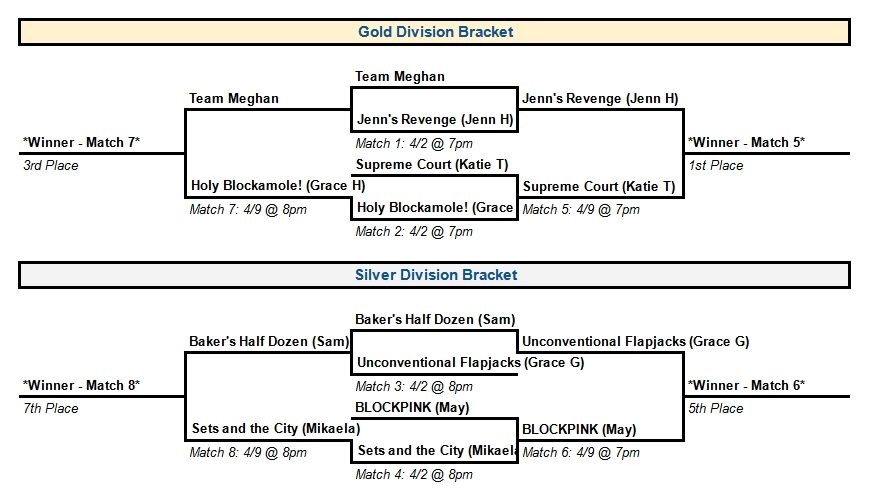
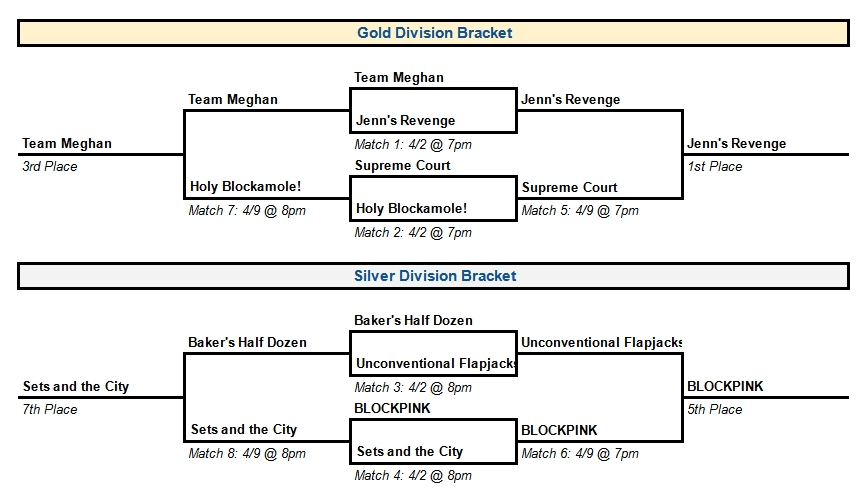
dcvb playoff 1

diff --git a/coed/dcvb_win24.html b/coed/dcvb_win24.html
@@ -172,40 +172,40 @@
           <th style="border-top:1px solid black;border-left:solid;border-right:solid;border-bottom:1px solid black;text-align:center;background-color:DarkGray;">-</th>
         </tr>
         <tr style="background-color:GhostWhite">
-          <th style="border-top:1px solid black;border-left:solid;border-right:solid;border-bottom:1px solid black;padding-left:3px;padding-right:3px;">When Harry Set Sally</th>
-          <td style="border:1px solid black;text-align:center;">9</td>
-          <td style="border:1px solid black;text-align:center;">11.25</td>
-          <td style="border:1px solid black;text-align:center;">11.25</td>
+          <th style="border-top:1px solid black;border-left:solid;border-right:solid;border-bottom:1px solid black;padding-left:3px;padding-right:3px;">Love at First Spike</th>
+          <td style="border:1px solid black;text-align:center;">10</td>
+          <td style="border:1px solid black;text-align:center;">12.50</td>
+          <td style="border:1px solid black;text-align:center;">12.50</td>
           <td style="border:1px solid black;text-align:center;">0.500</td>
+          <td style="border:1px solid black;text-align:center;">0.500</td>
+          <td style="border:1px solid black;text-align:center;">0.499</td>
+          <td style="border:1px solid black;text-align:center;">0.500</td>
+          <td style="border:1px solid black;text-align:center;">-</td>
+          <th style="border-top:1px solid black;border-left:solid;border-right:solid;border-bottom:1px solid black;text-align:center;background-color:MediumSeaGreen;">+2</th>
+        </tr>
+        <tr style="background-color:LightGray">
+          <th style="border-top:1px solid black;border-left:solid;border-right:solid;border-bottom:1px solid black;padding-left:3px;padding-right:3px;">When Harry Set Sally</th>
+          <td style="border:1px solid black;text-align:center;">10</td>
+          <td style="border:1px solid black;text-align:center;">11.75</td>
+          <td style="border:1px solid black;text-align:center;">13.25</td>
+          <td style="border:1px solid black;text-align:center;">0.470</td>
           <td style="border:1px solid black;text-align:center;">0.503</td>
           <td style="border:1px solid black;text-align:center;">0.500</td>
           <td style="border:1px solid black;text-align:center;">0.502</td>
-          <td style="border:1px solid black;text-align:center;">0.479</td>
-          <th style="border-top:1px solid black;border-left:solid;border-right:solid;border-bottom:1px solid black;text-align:center;background-color:LightGreen;">+1</th>
+          <td style="border:1px solid black;text-align:center;">-</td>
+          <th style="border-top:1px solid black;border-left:solid;border-right:solid;border-bottom:1px solid black;text-align:center;background-color:LightCoral;">-1</th>
         </tr>
-        <tr style="background-color:LightGray">
+        <tr style="background-color:GhostWhite">
           <th style="border-top:1px solid black;border-left:solid;border-right:solid;border-bottom:1px solid black;padding-left:3px;padding-right:3px;">Thursdays with Walter</th>
           <td style="border:1px solid black;text-align:center;">10</td>
           <td style="border:1px solid black;text-align:center;">10.75</td>
           <td style="border:1px solid black;text-align:center;">14.25</td>
           <td style="border:1px solid black;text-align:center;">0.430</td>
           <td style="border:1px solid black;text-align:center;">0.507</td>
-          <td style="border:1px solid black;text-align:center;">0.500</td>
-          <td style="border:1px solid black;text-align:center;">0.505</td>
+          <td style="border:1px solid black;text-align:center;">0.499</td>
+          <td style="border:1px solid black;text-align:center;">0.504</td>
           <td style="border:1px solid black;text-align:center;">-</td>
-          <th style="border-top:1px solid black;border-left:solid;border-right:solid;border-bottom:1px solid black;text-align:center;background-color:ForestGreen;">+3</th>
-        </tr>
-        <tr style="background-color:GhostWhite">
-          <th style="border-top:1px solid black;border-left:solid;border-right:solid;border-bottom:1px solid black;padding-left:3px;padding-right:3px;">Love at First Spike</th>
-          <td style="border:1px solid black;text-align:center;">9</td>
-          <td style="border:1px solid black;text-align:center;">10.50</td>
-          <td style="border:1px solid black;text-align:center;">12.00</td>
-          <td style="border:1px solid black;text-align:center;">0.467</td>
-          <td style="border:1px solid black;text-align:center;">0.503</td>
-          <td style="border:1px solid black;text-align:center;">0.500</td>
-          <td style="border:1px solid black;text-align:center;">0.502</td>
-          <td style="border:1px solid black;text-align:center;">0.525</td>
-          <th style="border-top:1px solid black;border-left:solid;border-right:solid;border-bottom:1px solid black;text-align:center;background-color:DarkGray;">-</th>
+          <th style="border-top:1px solid black;border-left:solid;border-right:solid;border-bottom:1px solid black;text-align:center;background-color:LightCoral;">-1</th>
         </tr>
         <tr style="background-color:LightGray">
           <th style="border-top:1px solid black;border-left:solid;border-right:solid;border-bottom:1px solid black;padding-left:3px;padding-right:3px;">Get It In</th>
@@ -217,7 +217,7 @@
           <td style="border:1px solid black;text-align:center;">0.499</td>
           <td style="border:1px solid black;text-align:center;">0.506</td>
           <td style="border:1px solid black;text-align:center;">-</td>
-          <th style="border-top:1px solid black;border-left:solid;border-right:solid;border-bottom:1px solid black;text-align:center;background-color:Crimson;">-3</th>
+          <th style="border-top:1px solid black;border-left:solid;border-right:solid;border-bottom:1px solid black;text-align:center;background-color:DarkGray;">-</th>
         </tr>
         <tr style="background-color:GhostWhite">
           <th style="border-top:1px solid black;border-left:solid;border-right:solid;border-bottom:1px solid black;padding-left:3px;padding-right:3px;">Spike Now</th>
@@ -229,7 +229,7 @@
           <td style="border:1px solid black;text-align:center;">0.499</td>
           <td style="border:1px solid black;text-align:center;">0.508</td>
           <td style="border:1px solid black;text-align:center;">-</td>
-          <th style="border-top:1px solid black;border-left:solid;border-right:solid;border-bottom:1px solid black;text-align:center;background-color:LightCoral;">-1</th>
+          <th style="border-top:1px solid black;border-left:solid;border-right:solid;border-bottom:1px solid black;text-align:center;background-color:DarkGray;">-</th>
         </tr>
         <tr style="background-color:LightGray">
           <th style="border-top:1px solid black;border-left:solid;border-right:solid;border-bottom:1px solid black;padding-left:3px;padding-right:3px;">Space Balls</th>
@@ -271,7 +271,8 @@
             ["M6",9,2,7,4,5,10,1,11,6,3,8],
             ["M7",6,2,7,4,5,9,1,11,8,3,10],
             ["M8",7,2,6,4,5,10,1,11,8,3,9],
-            ["M9",7,2,5,4,8,10,1,11,9,3,6]
+            ["M9",7,2,5,4,8,10,1,11,9,3,6],
+            ["M10",5,2,6,4,8,10,1,11,9,3,7]
           ];
   
           // create a data set
@@ -1069,11 +1070,11 @@
         </tr>
         <tr>
           <td style="width:150px;text-align:left;border-top:solid;border-left:solid;border-right:1px solid black;background-color:GhostWhite;padding-left:3px;">When Harry Set Sally</td>
-          <td style="width:30px;text-align:center;border-top:solid;border-left:1px solid black;border-right:solid;background-color:GhostWhite;"></td>
+          <td style="width:30px;text-align:center;border-top:solid;border-left:1px solid black;border-right:solid;background-color:GhostWhite;">0.5</td>
         </tr>
         <tr>
           <td style="width:150px;text-align:left;border-bottom:1px solid black;border-left:solid;border-right:1px solid black;background-color:GhostWhite;padding-left:3px;">Love at First Spike</td>
-          <td style="width:30px;text-align:center;border-bottom:1px solid black;border-left:1px solid black;border-right:solid;background-color:GhostWhite;"></td>
+          <td style="width:30px;text-align:center;border-bottom:1px solid black;border-left:1px solid black;border-right:solid;background-color:GhostWhite;">2</td>
         </tr>
         <tr>
           <th colspan="2" style="text-align:center;border-top:solid;border-bottom:solid;border-left:solid;border-right:solid;background-color:GhostWhite;">Court 2</th>
@@ -1150,12 +1151,12 @@
           <th colspan="2" style="text-align:center;border-top:solid;border-bottom:solid;border-left:solid;border-right:solid;background-color:GhostWhite;">Court 2 - Match 1</th>
         </tr>
         <tr>
-          <td style="width:150px;text-align:left;border-top:solid;border-left:1px solid black;border-right:1px solid black;background-color:GhostWhite;padding-left:3px;">#1</td>
-          <td style="width:30px;text-align:center;border-top:solid;border-left:1px solid black;border-right:solid;background-color:GhostWhite;"></td>
+          <td style="width:150px;text-align:left;border-top:solid;border-left:1px solid black;border-right:1px solid black;background-color:GhostWhite;padding-left:3px;">Supreme</td>
+          <td style="width:30px;text-align:center;border-top:solid;border-left:1px solid black;border-right:solid;background-color:GhostWhite;">1</td>
         </tr>
         <tr>
-          <td style="width:150px;text-align:left;border-bottom:1px solid black;border-left:1px solid black;border-right:1px solid black;background-color:GhostWhite;padding-left:3px;">#11</td>
-          <td style="width:30px;text-align:center;border-bottom:1px solid black;border-left:1px solid black;border-right:solid;background-color:GhostWhite;"></td>
+          <td style="width:150px;text-align:left;border-bottom:1px solid black;border-left:1px solid black;border-right:1px solid black;background-color:GhostWhite;padding-left:3px;">Set It and Forget It</td>
+          <td style="width:30px;text-align:center;border-bottom:1px solid black;border-left:1px solid black;border-right:solid;background-color:GhostWhite;">0</td>
         </tr>
         <tr>
           <th colspan="2" style="text-align:center;border-top:solid;border-bottom:solid;border-left:solid;border-right:solid;background-color:GhostWhite;">Court 3</th>
@@ -1172,34 +1173,34 @@
           <th colspan="2" style="text-align:center;border-top:solid;border-bottom:solid;border-left:solid;border-right:solid;background-color:LightGray;">Court 1 - Match 2</th>
         </tr>
         <tr>
-          <td style="width:150px;text-align:left;border-top:solid;border-left:1px solid black;border-right:1px solid black;border-left:solid;background-color:LightGray;padding-left:3px;">#5</td>
-          <td style="width:30px;text-align:center;border-top:solid;border-left:1px solid black;border-right:solid;background-color:LightGray;"></td>
+          <td style="width:150px;text-align:left;border-top:solid;border-left:1px solid black;border-right:1px solid black;border-left:solid;background-color:LightGray;padding-left:3px;">Love at First Spike</td>
+          <td style="width:30px;text-align:center;border-top:solid;border-left:1px solid black;border-right:solid;background-color:LightGray;">1</td>
         </tr>
         <tr>
-          <td style="width:150px;text-align:left;border-bottom:1px solid black;border-left:1px solid black;border-right:1px solid black;border-left:solid;background-color:LightGray;padding-left:3px;">#10</td>
-          <td style="width:30px;text-align:center;border-bottom:1px solid black;border-left:1px solid black;border-right:solid;background-color:LightGray;"></td>
+          <td style="width:150px;text-align:left;border-bottom:1px solid black;border-left:1px solid black;border-right:1px solid black;border-left:solid;background-color:LightGray;padding-left:3px;">Space Balls</td>
+          <td style="width:30px;text-align:center;border-bottom:1px solid black;border-left:1px solid black;border-right:solid;background-color:LightGray;">0</td>
         </tr>
         <tr>
           <th colspan="2" style="text-align:center;border-top:solid;border-bottom:solid;border-left:solid;border-right:solid;background-color:LightGray;">Court 2 - Match 3</th>
         </tr>
         <tr>
-          <td style="width:150px;text-align:left;border-top:solid;border-left:1px solid black;border-right:1px solid black;background-color:LightGray;padding-left:3px;">#6</td>
-          <td style="width:30px;text-align:center;border-top:solid;border-left:1px solid black;border-right:solid;background-color:LightGray;"></td>
+          <td style="width:150px;text-align:left;border-top:solid;border-left:1px solid black;border-right:1px solid black;background-color:LightGray;padding-left:3px;">When Harry Set Sally</td>
+          <td style="width:30px;text-align:center;border-top:solid;border-left:1px solid black;border-right:solid;background-color:LightGray;">1</td>
         </tr>
         <tr>
-          <td style="width:150px;text-align:left;border-bottom:1px solid black;border-left:1px solid black;border-right:1px solid black;background-color:LightGray;padding-left:3px;">#9</td>
-          <td style="width:30px;text-align:center;border-bottom:1px solid black;border-left:1px solid black;border-right:solid;background-color:LightGray;"></td>
+          <td style="width:150px;text-align:left;border-bottom:1px solid black;border-left:1px solid black;border-right:1px solid black;background-color:LightGray;padding-left:3px;">Spike Now</td>
+          <td style="width:30px;text-align:center;border-bottom:1px solid black;border-left:1px solid black;border-right:solid;background-color:LightGray;">0</td>
         </tr>
         <tr>
           <th colspan="2" style="text-align:center;border-top:solid;border-bottom:solid;border-left:solid;border-right:solid;background-color:LightGray;">Court 3 - Match 4</th>
         </tr>
         <tr>
-          <td style="width:150px;text-align:left;border-top:solid;border-left:1px solid black;background-color:LightGray;padding-left:3px;">#7</td>
-          <td style="width:30px;text-align:center;border-top:solid;border-left:1px solid black;border-right:solid;background-color:LightGray;"></td>
+          <td style="width:150px;text-align:left;border-top:solid;border-left:1px solid black;background-color:LightGray;padding-left:3px;">Thursdays with Walter</td>
+          <td style="width:30px;text-align:center;border-top:solid;border-left:1px solid black;border-right:solid;background-color:LightGray;">1</td>
         </tr>
         <tr>
-          <td style="width:150px;text-align:left;border-bottom:solid;border-left:1px solid black;background-color:LightGray;padding-left:3px;">#8</td>
-          <td style="width:30px;text-align:center;border-bottom:solid;border-left:1px solid black;border-right:solid;background-color:LightGray;"></td>
+          <td style="width:150px;text-align:left;border-bottom:solid;border-left:1px solid black;background-color:LightGray;padding-left:3px;">Get It In</td>
+          <td style="width:30px;text-align:center;border-bottom:solid;border-left:1px solid black;border-right:solid;background-color:LightGray;">0</td>
         </tr>
       </table>
     </div>
@@ -1216,33 +1217,33 @@
           <th colspan="2" style="text-align:center;border-top:solid;border-bottom:solid;border-left:solid;border-right:solid;background-color:GhostWhite;">Court 1 - Match 5</th>
         </tr>
         <tr>
-          <td style="width:150px;text-align:left;border-top:solid;border-left:solid;border-right:1px solid black;background-color:GhostWhite;padding-left:3px;">#2</td>
+          <td style="width:150px;text-align:left;border-top:solid;border-left:solid;border-right:1px solid black;background-color:GhostWhite;padding-left:3px;">Exodia</td>
           <td style="width:30px;text-align:center;border-top:solid;border-left:1px solid black;border-right:solid;background-color:GhostWhite;"></td>
         </tr>
         <tr>
-          <td style="width:150px;text-align:left;border-bottom:1px solid black;border-left:solid;border-right:1px solid black;background-color:GhostWhite;padding-left:3px;">Winner #7/#8</td>
+          <td style="width:150px;text-align:left;border-bottom:1px solid black;border-left:solid;border-right:1px solid black;background-color:GhostWhite;padding-left:3px;">Thursdays with Walter</td>
           <td style="width:30px;text-align:center;border-bottom:1px solid black;border-left:1px solid black;border-right:solid;background-color:GhostWhite;"></td>
         </tr>
         <tr>
           <th colspan="2" style="text-align:center;border-top:solid;border-bottom:solid;border-left:solid;border-right:solid;background-color:GhostWhite;">Court 2 - Match 6</th>
         </tr>
         <tr>
-          <td style="width:150px;text-align:left;border-top:solid;border-left:1px solid black;border-right:1px solid black;background-color:GhostWhite;padding-left:3px;">#3</td>
+          <td style="width:150px;text-align:left;border-top:solid;border-left:1px solid black;border-right:1px solid black;background-color:GhostWhite;padding-left:3px;">Panic Attack</td>
           <td style="width:30px;text-align:center;border-top:solid;border-left:1px solid black;border-right:solid;background-color:GhostWhite;"></td>
         </tr>
         <tr>
-          <td style="width:150px;text-align:left;border-bottom:1px solid black;border-left:1px solid black;border-right:1px solid black;background-color:GhostWhite;padding-left:3px;">Winner #6/#9</td>
+          <td style="width:150px;text-align:left;border-bottom:1px solid black;border-left:1px solid black;border-right:1px solid black;background-color:GhostWhite;padding-left:3px;">When Harry Set Sally</td>
           <td style="width:30px;text-align:center;border-bottom:1px solid black;border-left:1px solid black;border-right:solid;background-color:GhostWhite;"></td>
         </tr>
         <tr>
           <th colspan="2" style="text-align:center;border-top:solid;border-bottom:solid;border-left:solid;border-right:solid;background-color:GhostWhite;">Court 3 - Match 7</th>
         </tr>
         <tr>
-          <td style="width:150px;text-align:left;border-top:solid;border-left:1px solid black;background-color:GhostWhite;padding-left:3px;">#4</td>
+          <td style="width:150px;text-align:left;border-top:solid;border-left:1px solid black;background-color:GhostWhite;padding-left:3px;">EZ Balls</td>
           <td style="width:30px;text-align:center;border-top:solid;border-left:1px solid black;border-right:solid;background-color:GhostWhite;"></td>
         </tr>
         <tr>
-          <td style="width:150px;text-align:left;border-bottom:solid;border-left:1px solid black;background-color:GhostWhite;padding-left:3px;">Winner #5/#10</td>
+          <td style="width:150px;text-align:left;border-bottom:solid;border-left:1px solid black;background-color:GhostWhite;padding-left:3px;">Love at First Spike</td>
           <td style="width:30px;text-align:center;border-bottom:solid;border-left:1px solid black;border-right:solid;background-color:GhostWhite;"></td>
         </tr>
         <tr>
@@ -1252,7 +1253,7 @@
           <th colspan="2" style="text-align:center;border-top:solid;border-bottom:solid;border-left:solid;border-right:solid;background-color:LightGray;">Court 1 - Match 8</th>
         </tr>
         <tr>
-          <td style="width:150px;text-align:left;border-top:solid;border-left:1px solid black;border-right:1px solid black;border-left:solid;background-color:LightGray;padding-left:3px;">Winner #1/#11</td>
+          <td style="width:150px;text-align:left;border-top:solid;border-left:1px solid black;border-right:1px solid black;border-left:solid;background-color:LightGray;padding-left:3px;">Supreme</td>
           <td style="width:30px;text-align:center;border-top:solid;border-left:1px solid black;border-right:solid;background-color:LightGray;"></td>
         </tr>
         <tr>
@@ -1318,11 +1319,11 @@
           <th colspan="2" style="text-align:center;border-top:solid;border-bottom:solid;border-left:solid;border-right:solid;background-color:GhostWhite;">Court 3 - Match 13</th>
         </tr>
         <tr>
-          <td style="width:150px;text-align:left;border-top:solid;border-left:1px solid black;border-right:1px solid black;background-color:GhostWhite;padding-left:3px;">Loser - Match 1</td>
+          <td style="width:150px;text-align:left;border-top:solid;border-left:1px solid black;border-right:1px solid black;background-color:GhostWhite;padding-left:3px;">Set It and Forget It</td>
           <td style="width:30px;text-align:center;border-top:solid;border-left:1px solid black;border-right:solid;background-color:GhostWhite;"></td>
         </tr>
         <tr>
-          <td style="width:150px;text-align:left;border-bottom:1px solid black;border-left:1px solid black;border-right:1px solid black;background-color:GhostWhite;padding-left:3px;">Loser - Match 5</td>
+          <td style="width:150px;text-align:left;border-bottom:1px solid black;border-left:1px solid black;border-right:1px solid black;background-color:GhostWhite;padding-left:3px;">Get It In</td>
           <td style="width:30px;text-align:center;border-bottom:1px solid black;border-left:1px solid black;border-right:solid;background-color:GhostWhite;"></td>
         </tr>
         <tr>
@@ -1354,11 +1355,11 @@
           <th colspan="2" style="text-align:center;border-top:solid;border-bottom:solid;border-left:solid;border-right:solid;background-color:LightGray;">Court 3 - Match 16</th>
         </tr>
         <tr>
-          <td style="width:150px;text-align:left;border-top:solid;border-left:1px solid black;background-color:LightGray;padding-left:3px;">Loser - Match 2</td>
+          <td style="width:150px;text-align:left;border-top:solid;border-left:1px solid black;background-color:LightGray;padding-left:3px;">Space Balls</td>
           <td style="width:30px;text-align:center;border-top:solid;border-left:1px solid black;border-right:solid;background-color:LightGray;"></td>
         </tr>
         <tr>
-          <td style="width:150px;text-align:left;border-bottom:solid;border-left:1px solid black;background-color:LightGray;padding-left:3px;">Loser - Match 3</td>
+          <td style="width:150px;text-align:left;border-bottom:solid;border-left:1px solid black;background-color:LightGray;padding-left:3px;">Spike Now</td>
           <td style="width:30px;text-align:center;border-bottom:solid;border-left:1px solid black;border-right:solid;background-color:LightGray;"></td>
         </tr>
       </table>
@@ -1675,7 +1676,7 @@
         </tr>
         <tr style="background-color:GhostWhite">
           <th style="border-top:1px solid black;border-left:solid;border-right:solid;border-bottom:solid;padding-left:5px;">Winter 2024</th>
-          <td style="text-align:center;border:1px solid black;border-bottom:solid;">7th</td>
+          <td style="text-align:center;border:1px solid black;border-bottom:solid;">5th</td>
           <td style="text-align:center;border-top:1px solid black;border-left:1px solid black;border-right:solid;border-bottom:solid;">-</td>
         </tr>
       </table>
@@ -1759,7 +1760,7 @@
           <td style="text-align:center;border:1px solid black;border-bottom:solid;">4/11</td>
           <td style="border:1px solid black;border-bottom:solid;padding-left:2px;"><a href="#Team_3" onclick="openTab('When Harry Set Sally', [])">When Harry Set Sally</a></td>
           <td style="text-align:center;border:1px solid black;border-bottom:solid;padding-left:2px;padding-right:2px;">Court 1 - 7:00pm</td>
-          <td style="text-align:center;border-top:1px solid black;border-left:1px solid black;border-right:solid;border-bottom:solid;">-</td>
+          <td style="text-align:center;border-top:1px solid black;border-left:1px solid black;border-right:solid;border-bottom:solid;">2.00</td>
         </tr>
       </table>
     </div>
@@ -1909,7 +1910,7 @@
         </tr>
         <tr style="background-color:GhostWhite">
           <th style="border-top:1px solid black;border-left:solid;border-right:solid;border-bottom:solid;padding-left:5px;">Winter 2024</th>
-          <td style="text-align:center;border:1px solid black;border-bottom:solid;">5th</td>
+          <td style="text-align:center;border:1px solid black;border-bottom:solid;">6th</td>
           <td style="text-align:center;border-top:1px solid black;border-left:1px solid black;border-right:solid;border-bottom:solid;">-</td>
         </tr>
       </table>
@@ -1993,7 +1994,7 @@
           <td style="text-align:center;border:1px solid black;border-bottom:solid;">4/11</td>
           <td style="border:1px solid black;border-bottom:solid;padding-left:2px;"><a href="#Team_1" onclick="openTab('Love at First Spike', [])">Love at First Spike</a></td>
           <td style="text-align:center;border:1px solid black;border-bottom:solid;padding-left:2px;padding-right:2px;">Court 1 - 7:00pm</td>
-          <td style="text-align:center;border-top:1px solid black;border-left:1px solid black;border-right:solid;border-bottom:solid;">-</td>
+          <td style="text-align:center;border-top:1px solid black;border-left:1px solid black;border-right:solid;border-bottom:solid;">0.50</td>
         </tr>
       </table>
     </div>
@@ -2875,7 +2876,7 @@
         </tr>
         <tr style="background-color:GhostWhite">
           <th style="border-top:1px solid black;border-left:solid;border-right:solid;border-bottom:solid;padding-left:5px;">Winter 2024</th>
-          <td style="text-align:center;border:1px solid black;border-bottom:solid;">6th</td>
+          <td style="text-align:center;border:1px solid black;border-bottom:solid;">7th</td>
           <td style="text-align:center;border-top:1px solid black;border-left:1px solid black;border-right:solid;border-bottom:solid;">-</td>
         </tr>
       </table>
